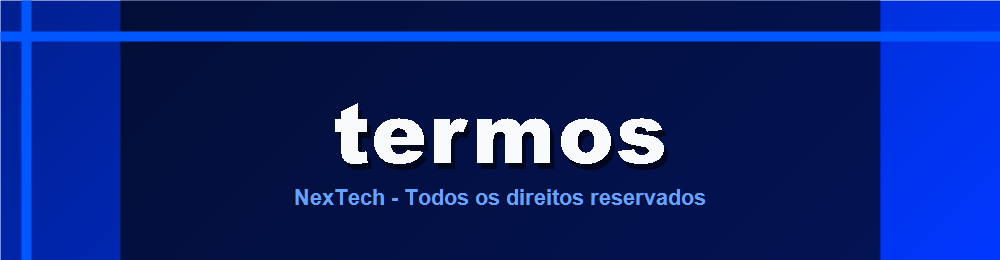
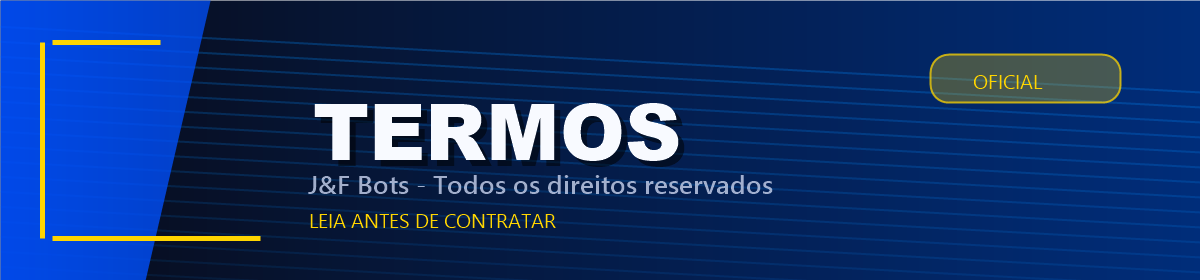
Refina visual do painel de termos

diff --git a/frontend/src/pages/Dashboard.tsx b/frontend/src/pages/Dashboard.tsx
@@ -400,7 +400,7 @@ const moduleCatalog: ModuleDefinition[] = [
   {
     id: "terms-panel",
     title: "Painel de Termos",
-    description: "Publica um painel Components V2 com botão para a página oficial de termos da NexTech.",
+    description: "Publica um painel Components V2 com texto estruturado e banner de termos.",
     icon: BookOpen,
     view: "terms-panel"
   },
@@ -7461,7 +7461,7 @@ function TermsPanel({
 
       <SimpleToggleCard
         checked={Boolean(settings.termsPanelEnabled)}
-        description="Libera a publicação do painel informativo com botão para os termos oficiais."
+        description="Libera a publicação do painel informativo de termos no canal escolhido."
         disabled={!canManage || saving}
         icon={BookOpen}
         onChange={(checked) => void saveTerms(checked)}
@@ -7492,10 +7492,6 @@ function TermsPanel({
             <DashboardTextField disabled={!canManage} label="Subtítulo" maxLength={160} onChange={(value) => setDraft((current) => ({ ...current, termsPanelSubtitle: value }))} value={draft.termsPanelSubtitle} />
           </div>
           <DashboardTextarea disabled={!canManage} label="Texto do painel" maxLength={1800} onChange={(value) => setDraft((current) => ({ ...current, termsPanelDescription: value }))} value={draft.termsPanelDescription} />
-          <div className="grid gap-4 md:grid-cols-2">
-            <DashboardTextField disabled={!canManage} label="Texto do botão" maxLength={80} onChange={(value) => setDraft((current) => ({ ...current, termsPanelButtonLabel: value }))} value={draft.termsPanelButtonLabel} />
-            <DashboardTextField disabled={!canManage} label="URL dos termos" maxLength={2048} onChange={(value) => setDraft((current) => ({ ...current, termsPanelButtonUrl: value }))} value={draft.termsPanelButtonUrl} />
-          </div>
           <div className="grid gap-4 md:grid-cols-2">
             <DashboardTextField disabled={!canManage} label="Imagem/Banner por URL" maxLength={2048} onChange={(value) => setDraft((current) => ({ ...current, termsPanelImageUrl: value }))} value={draft.termsPanelImageUrl} />
             <label className="space-y-2">
@@ -7556,38 +7552,48 @@ function defaultTermsDraft() {
 
 function defaultTermsPanelDescription() {
   return [
-    "### 🤝 Aceitação dos Termos & Serviço",
-    "• Ao utilizar os serviços oferecidos pelo NexTech, você automaticamente concorda com os termos e condições estabelecidos abaixo.",
+    "## 🤝 Aceitação dos Termos & Serviço",
+    "- Ao utilizar os serviços oferecidos pela **NexTech**, você concorda com os termos e condições estabelecidos abaixo.",
     "",
-    "### 💰 Pagamento e Orçamento",
-    "• Os valores dos serviços apresentados no Discord do NexTech são pré-estabelecidos, mas estão sujeitos a alterações com base dificuldade do projeto.",
+    "## 💰 Pagamento e Orçamento",
+    "- **Valores:** os serviços apresentados no Discord da **NexTech** são pré-estabelecidos, mas podem mudar conforme a dificuldade do projeto.",
     "",
-    "• Não nos responsabilizamos por pagamentos realizados ao destinatário errado ou qualquer falha no processo de pagamento que esteja fora do nosso controle.",
+    "- **Responsabilidade:** não nos responsabilizamos por pagamentos enviados ao destinatário errado ou por falhas fora do nosso controle.",
     "",
-    "• O prazo de entrega é estabelecido de acordo com as demanda do cliente.",
+    "- **Prazo:** a entrega é combinada de acordo com a demanda do cliente.",
     "",
-    "• Os produtos são para uso exclusivo de nossos clientes, não permitimos a revenda desses conteúdos a terceiros.",
+    "- **Uso exclusivo:** os produtos são destinados somente aos nossos clientes; revenda a terceiros não é permitida.",
     "",
-    "### ☑ Política de Reembolso",
-    "• Após a entrega, não haverá reembolso.",
+    "## ☑ Política de Reembolso",
+    "- **Entrega concluída:** após a entrega, não haverá reembolso.",
     "",
-    "• A comunicação deve ser feita através de tickets para evitar transtornos.",
+    "- **Comunicação:** fale sempre por tickets para evitar transtornos.",
     "",
-    "• Em caso de possíveis golpes, olhe os membros do servidor com o cargo **Dev** e envie uma mensagem com as provas do caso."
+    "- **Golpes:** em caso de suspeita, confira os membros com cargo **Dev** e envie uma mensagem com as provas do caso."
   ].join("\n");
 }
 
 function TermsPanelPreview({ draft }: { draft: ReturnType<typeof defaultTermsDraft> }) {
   const imageUrl = draft.termsPanelImageUrl || "/terms-banner.png";
+  const sections = parseTermsPreviewSections(draft.termsPanelDescription);
   return (
-    <div className="max-w-2xl rounded-lg border border-zinc-800 bg-[#313338] p-3 text-white shadow-2xl">
-      <div className="border-l-4 py-1 pl-3" style={{ borderColor: draft.termsPanelColor }}>
+    <div className="max-w-2xl rounded-md border border-zinc-700 bg-[#313338] p-3 text-white shadow-2xl">
+      <div className="border-l-4 py-1 pl-4" style={{ borderColor: draft.termsPanelColor }}>
         <div className={imageUrl && draft.termsPanelImageFormat !== "horizontal" ? "grid gap-3 sm:grid-cols-[minmax(0,1fr)_8rem]" : ""}>
           <div>
-            <h3 className="text-base font-extrabold leading-tight text-white">{draft.termsPanelTitle}</h3>
-            {draft.termsPanelSubtitle ? <p className="mt-1 border-b border-zinc-600 pb-2 text-xs font-semibold text-zinc-200">{draft.termsPanelSubtitle}</p> : null}
-            <p className="mt-3 whitespace-pre-line text-xs leading-relaxed text-zinc-100">{draft.termsPanelDescription}</p>
-            {draft.termsPanelFooterText ? <p className="mt-4 text-[11px] italic text-zinc-100">{draft.termsPanelFooterText}</p> : null}
+            <h3 className="text-lg font-extrabold leading-tight text-white">{draft.termsPanelTitle}</h3>
+            <p className="mt-1 text-xs font-semibold text-zinc-200">{draft.termsPanelSubtitle || "Contratação, pagamento e reembolso"}</p>
+            <div className="mt-3 space-y-3">
+              {sections.map((section, index) => (
+                <div className={index === 0 ? "" : "border-t border-zinc-600/70 pt-3"} key={`${section.title}-${index}`}>
+                  {section.title ? <h4 className="text-sm font-extrabold text-white">{section.title}</h4> : null}
+                  <div className="mt-2 space-y-2 text-xs leading-relaxed text-zinc-100">
+                    {section.lines.map((line, lineIndex) => <p key={`${line}-${lineIndex}`}>{line}</p>)}
+                  </div>
+                </div>
+              ))}
+            </div>
+            {draft.termsPanelFooterText ? <p className="mt-4 border-t border-zinc-600/70 pt-2 text-[11px] italic text-zinc-100">{draft.termsPanelFooterText}</p> : null}
           </div>
           {imageUrl && draft.termsPanelImageFormat !== "horizontal" ? <img alt="" className={draft.termsPanelImageFormat === "vertical" ? "h-52 w-full rounded-md object-cover" : "aspect-square w-full rounded-md object-cover"} src={imageUrl} /> : null}
         </div>
@@ -7595,6 +7601,35 @@ function TermsPanelPreview({ draft }: { draft: ReturnType<typeof defaultTermsDra
       </div>
     </div>
   );
+}
+
+function parseTermsPreviewSections(text: string) {
+  const sections: Array<{ lines: string[]; title: string }> = [];
+  let current: { lines: string[]; title: string } | null = null;
+
+  text.split("\n").forEach((rawLine) => {
+    const line = rawLine.trim();
+    if (!line) return;
+
+    if (/^#{1,6}\s/.test(line)) {
+      if (current) sections.push(current);
+      current = { title: cleanTermsPreviewLine(line), lines: [] };
+      return;
+    }
+
+    if (!current) current = { title: "", lines: [] };
+    current.lines.push(cleanTermsPreviewLine(line));
+  });
+
+  if (current) sections.push(current);
+  return sections.length ? sections : [{ title: "", lines: ["Configure o texto do painel."] }];
+}
+
+function cleanTermsPreviewLine(value: string) {
+  return value
+    .replace(/^#{1,6}\s*/, "")
+    .replace(/^[-•]\s*/, "")
+    .replace(/\*\*/g, "");
 }
 
 function DashboardTextField({ disabled, label, maxLength, onChange, value }: { disabled: boolean; label: string; maxLength: number; onChange: (value: string) => void; value: string }) {

diff --git a/backend/src/services/termsPanelService.ts b/backend/src/services/termsPanelService.ts
@@ -97,9 +97,12 @@ export function buildTermsPanelPayload(settings: GuildSettingsDto) {
 function buildTermsTextComponents(settings: GuildSettingsDto): DiscordComponent[] {
   const title = displayTermsTitle(settings.termsPanelTitle);
   const company = extractCompanyName(settings.termsPanelTitle);
-  const description = settings.termsPanelDescription?.trim() || defaultTermsDescription(company);
-  const lines = [`## ${title}`, description].filter(Boolean);
+  const description = settings.termsPanelDescription?.trim();
+  if (!description) {
+    return defaultTermsComponents(title, company, settings.termsPanelSubtitle, settings.termsPanelFooterText);
+  }
 
+  const lines = [`# ${title}`, settings.termsPanelSubtitle?.trim() ? `**${settings.termsPanelSubtitle.trim()}**` : null, description, settings.termsPanelFooterText?.trim() ? `-# ${settings.termsPanelFooterText.trim()}` : null].filter(Boolean);
   return chunkText(lines.join("\n\n"), 3900).map((content) => ({ type: 10, content }));
 }
 
@@ -124,27 +127,37 @@ function resolveTermsImageUrl(settings: GuildSettingsDto) {
   return `${publicOrigin()}${source.startsWith("/") ? source : `/${source}`}`;
 }
 
-function defaultTermsDescription(company: string) {
-  return [
-    "### 🤝 Aceitação dos Termos & Serviço",
-    `• Ao utilizar os serviços oferecidos pelo ${company}, você automaticamente concorda com os termos e condições estabelecidos abaixo.`,
-    "",
-    "### 💰 Pagamento e Orçamento",
-    `• Os valores dos serviços apresentados no Discord do ${company} são pré-estabelecidos, mas estão sujeitos a alterações com base dificuldade do projeto.`,
-    "",
-    "• Não nos responsabilizamos por pagamentos realizados ao destinatário errado ou qualquer falha no processo de pagamento que esteja fora do nosso controle.",
-    "",
-    "• O prazo de entrega é estabelecido de acordo com as demanda do cliente.",
-    "",
-    "• Os produtos são para uso exclusivo de nossos clientes, não permitimos a revenda desses conteúdos a terceiros.",
-    "",
-    "### ☑ Política de Reembolso",
-    "• Após a entrega, não haverá reembolso.",
-    "",
-    "• A comunicação deve ser feita através de tickets para evitar transtornos.",
-    "",
-    "• Em caso de possíveis golpes, olhe os membros do servidor com o cargo **Dev** e envie uma mensagem com as provas do caso."
+function defaultTermsComponents(title: string, company: string, subtitle: string | null, footer: string | null) {
+  const header = [
+    `# ${title}`,
+    subtitle?.trim() ? `**${subtitle.trim()}**` : "**Contratação, pagamento e reembolso**",
+    "-# Leia as regras abaixo antes de contratar qualquer serviço."
   ].join("\n");
+
+  const sections = [
+    header,
+    [
+      "## 🤝 Aceitação dos Termos & Serviço",
+      `- Ao utilizar os serviços oferecidos pela **${company}**, você concorda com os termos e condições estabelecidos abaixo.`
+    ].join("\n"),
+    [
+      "## 💰 Pagamento e Orçamento",
+      `- **Valores:** os serviços apresentados no Discord da **${company}** são pré-estabelecidos, mas podem mudar conforme a dificuldade do projeto.`,
+      "- **Responsabilidade:** não nos responsabilizamos por pagamentos enviados ao destinatário errado ou por falhas fora do nosso controle.",
+      "- **Prazo:** a entrega é combinada de acordo com a demanda do cliente.",
+      "- **Uso exclusivo:** os produtos são destinados somente aos nossos clientes; revenda a terceiros não é permitida."
+    ].join("\n"),
+    [
+      "## ☑ Política de Reembolso",
+      "- **Entrega concluída:** após a entrega, não haverá reembolso.",
+      "- **Comunicação:** fale sempre por tickets para evitar transtornos.",
+      "- **Golpes:** em caso de suspeita, confira os membros com cargo **Dev** e envie uma mensagem com as provas do caso."
+    ].join("\n")
+  ];
+
+  if (footer?.trim()) sections.push(`-# ${footer.trim()}`);
+
+  return sections.map((content) => ({ type: 10, content }));
 }
 
 function publicOrigin() {

diff --git a/backend/src/services/termsPanelService.test.ts b/backend/src/services/termsPanelService.test.ts
@@ -22,15 +22,19 @@ test("painel de termos usa texto estruturado e banner solto no final", () => {
 
   const container = (payload.components as any[])[0];
   const components = container.components as any[];
-  const text = components[0].content as string;
+  const textComponents = components.filter((component) => component.type === 10);
+  const text = textComponents.map((component) => component.content).join("\n");
 
   assert.equal(container.type, 17);
   assert.equal(container.accent_color, 0xffd500);
   assert.equal(components.some((component) => component.type === 1), false);
+  assert.equal(textComponents.length >= 4, true);
   assert.equal(components.at(-1).type, 12);
   assert.match(components.at(-1).items[0].media.url, /\/terms-banner\.png$/);
-  assert.match(text, /## Termos & Serviço/);
+  assert.match(text, /# Termos & Serviço/);
+  assert.match(text, /Contratação, pagamento e reembolso/);
   assert.match(text, /Aceitação dos Termos & Serviço/);
   assert.match(text, /Pagamento e Orçamento/);
   assert.match(text, /Política de Reembolso/);
+  assert.match(text, /revenda a terceiros não é permitida/);
 });
